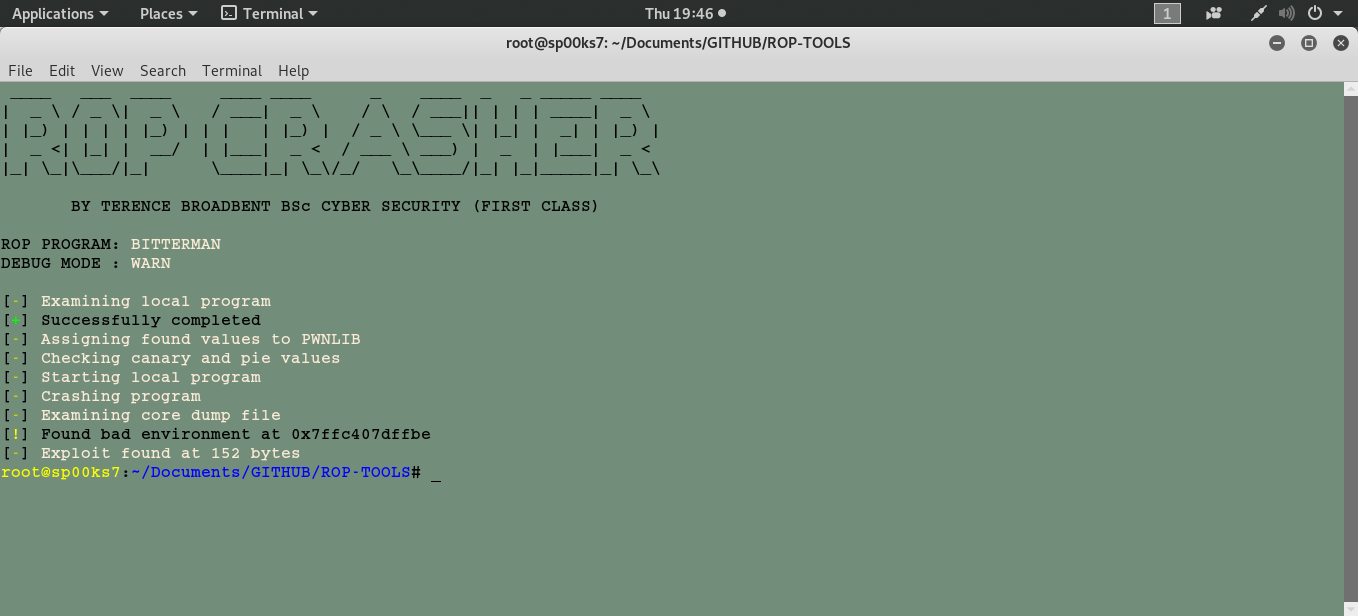
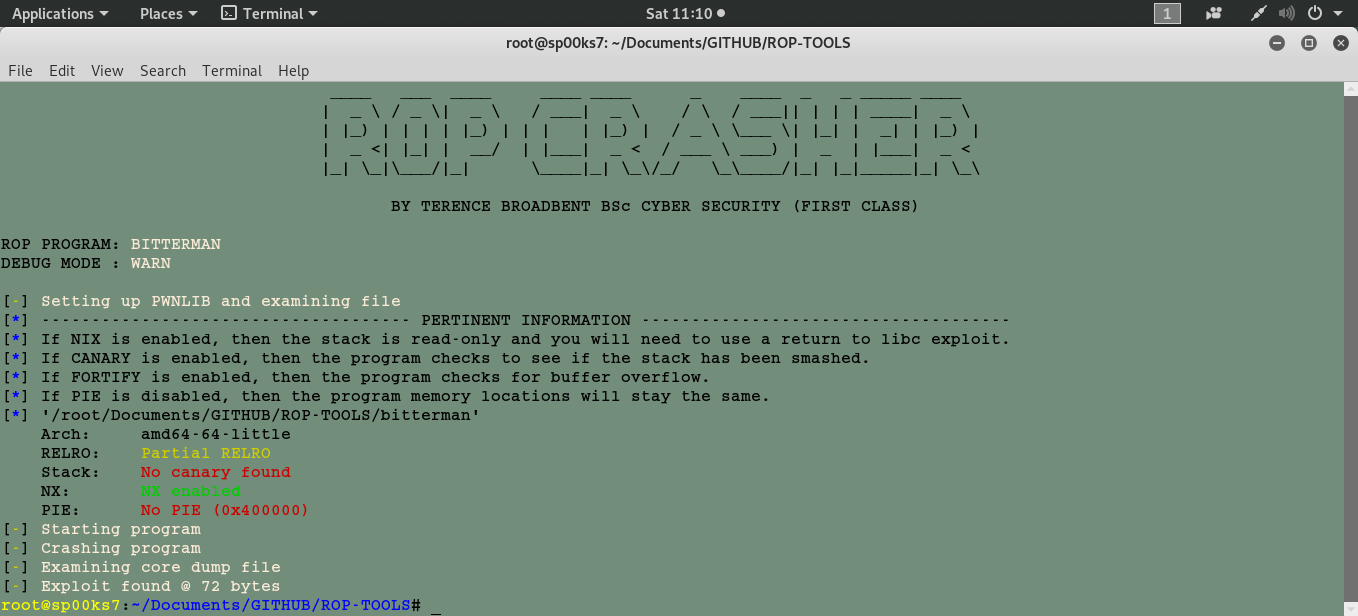
changes

diff --git a/RopCrasher.py b/RopCrasher.py
@@ -73,7 +73,7 @@ def header():
    print "\t\t\t\t\t\t\t\t| |_) | | | | |_) | | |   | |_) |  / _ \ \___ \| |_| |  _| | |_) | "
    print "\t\t\t\t\t\t\t\t|  _ <| |_| |  __/  | |___|  _ <  / ___ \ ___) |  _  | |___|  _ <  "
    print "\t\t\t\t\t\t\t\t|_| \_|\___/|_|      \____|_| \_\/_/   \_\____/|_| |_|_____|_| \_\ "
-   print "\n\t\t\t\t\t\t\t\t       BY TERENCE BROADBENT BSc CYBER SECURITY (FIRST CLASS)     "  
+   print "\n\t\t\t\t\t\t\t\t       BY TERENCE BROADBENT BSc CYBER SECURITY (FIRST CLASS)   \n"  
 
 def subhead():
    print "ROP PROGRAM:",
@@ -95,7 +95,7 @@ def message(message):
 
 header()
 subhead()
-message("Examining file and setting up PWNLIB")
+message("Setting up PWNLIB and examining file")
 
 context.clear()
 context(terminal=['tmux', 'new-window'])			# GDP in new window.
@@ -105,7 +105,7 @@ info("If NIX is enabled, then the stack is read-only and you will need to use a 
 info("If CANARY is enabled, then the program checks to see if the stack has been smashed.")
 info("If FORTIFY is enabled, then the program checks for buffer overflow.")
 info("If PIE is disabled, then the program memory locations will stay the same.")
-info("-------------------------------------------------------------------------------------------------")
+#info("-------------------------------------------------------------------------------------------------")
 
 # Automatic
 context.binary    = ropFile
@@ -117,7 +117,7 @@ context.binary    = ropFile
 #context.bits	   = ""
 
 #others
-context.log_file  = 'log.txt'
+#context.log_file  = 'log.txt'
 context.log_level = ropMode
 success("Successfully completed")
 

diff --git a/README.md b/README.md
@@ -5,7 +5,7 @@ Usage: python RopCrasher.py bitterman mode
 
 | LANGUAGE | FILENAME      | MD5 HASH                         | DESCRIPTION                                                    |
 |--------  |---------      |---------                         | -----                                                          |
-| python   | RopCrasher.py | 941c17490c9c2857bd620e91db6bf1cb | Crash's running ELF program to produce initial segfault offset |
+| python   | RopCrasher.py | 77faecdba08d11935f11edf6b72c6398 | Crash's running ELF program to produce initial segfault offset |
 
 - [x] Recognised modes include: critical, debug, error, info, notset, warn and warning...
 - [x] For further information see - http://docs.pwntools.com/en/stable
